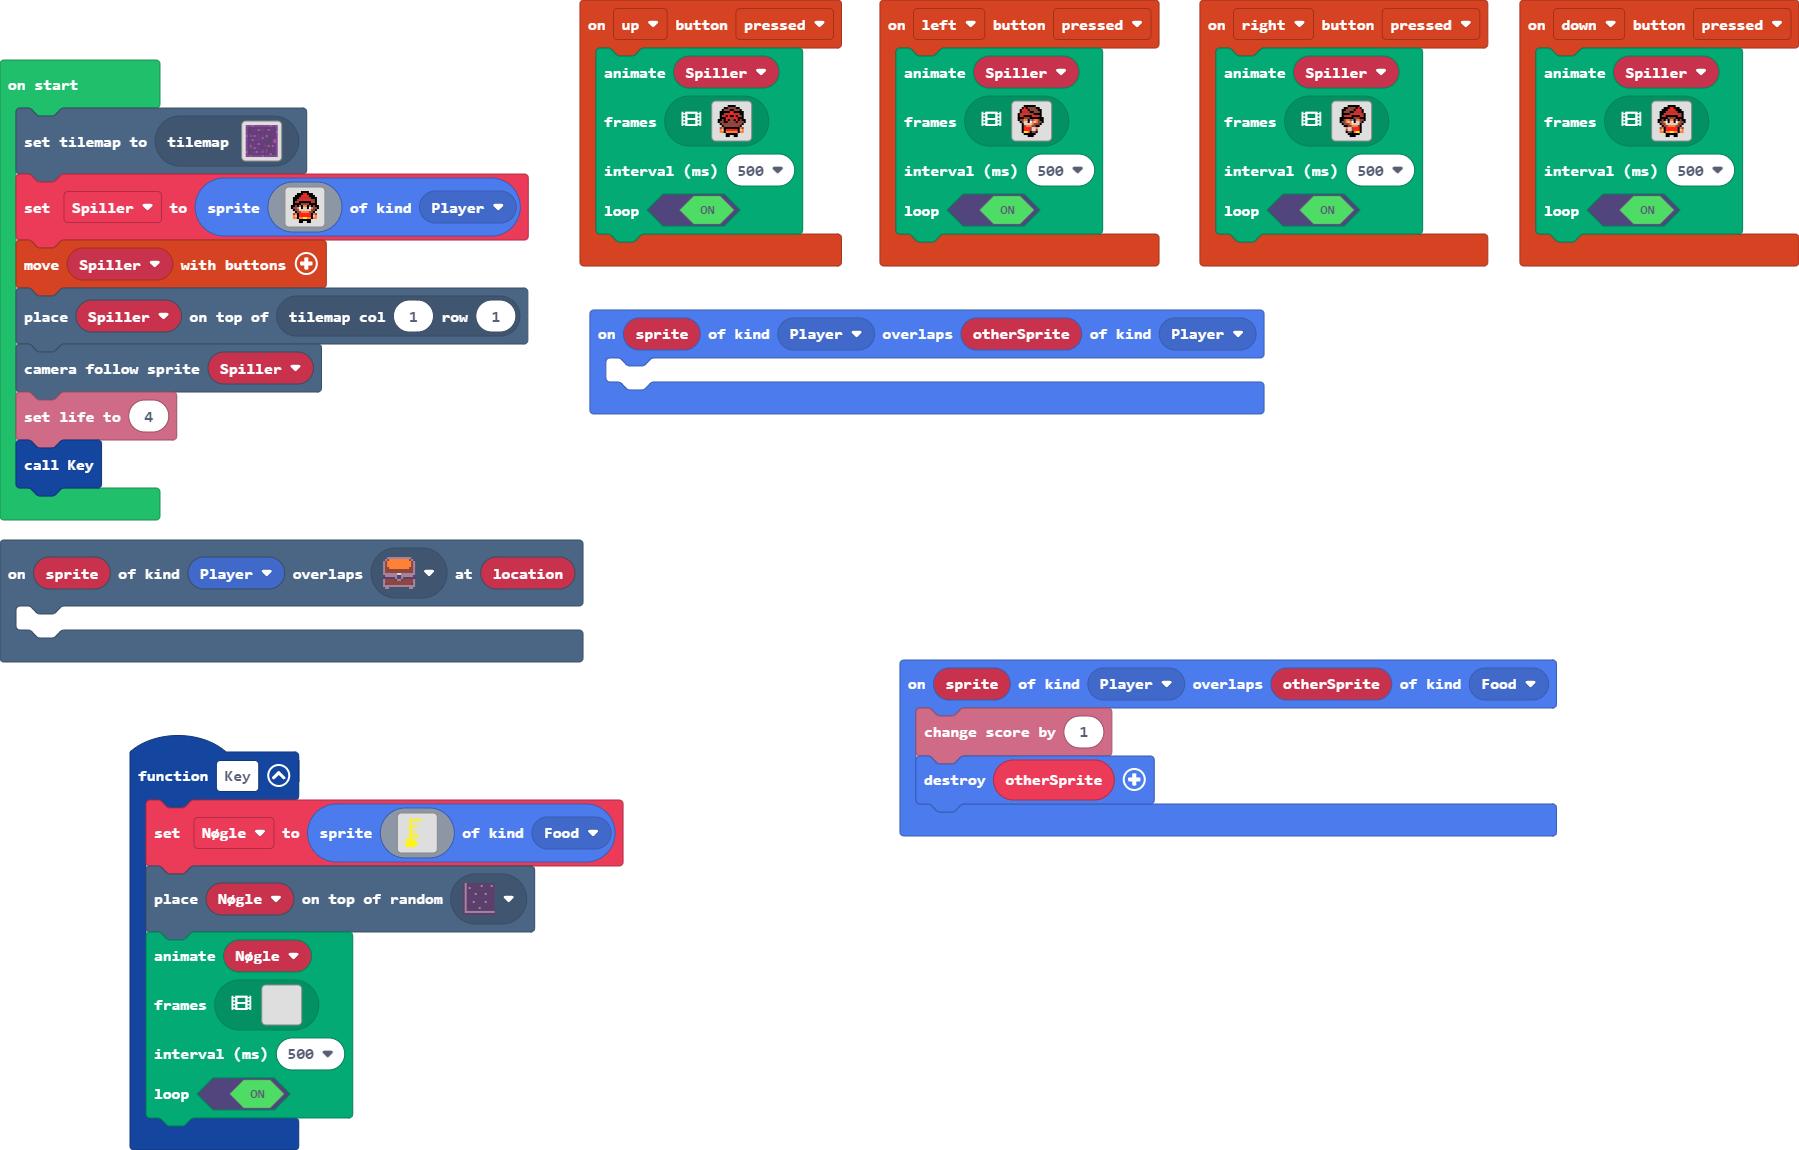
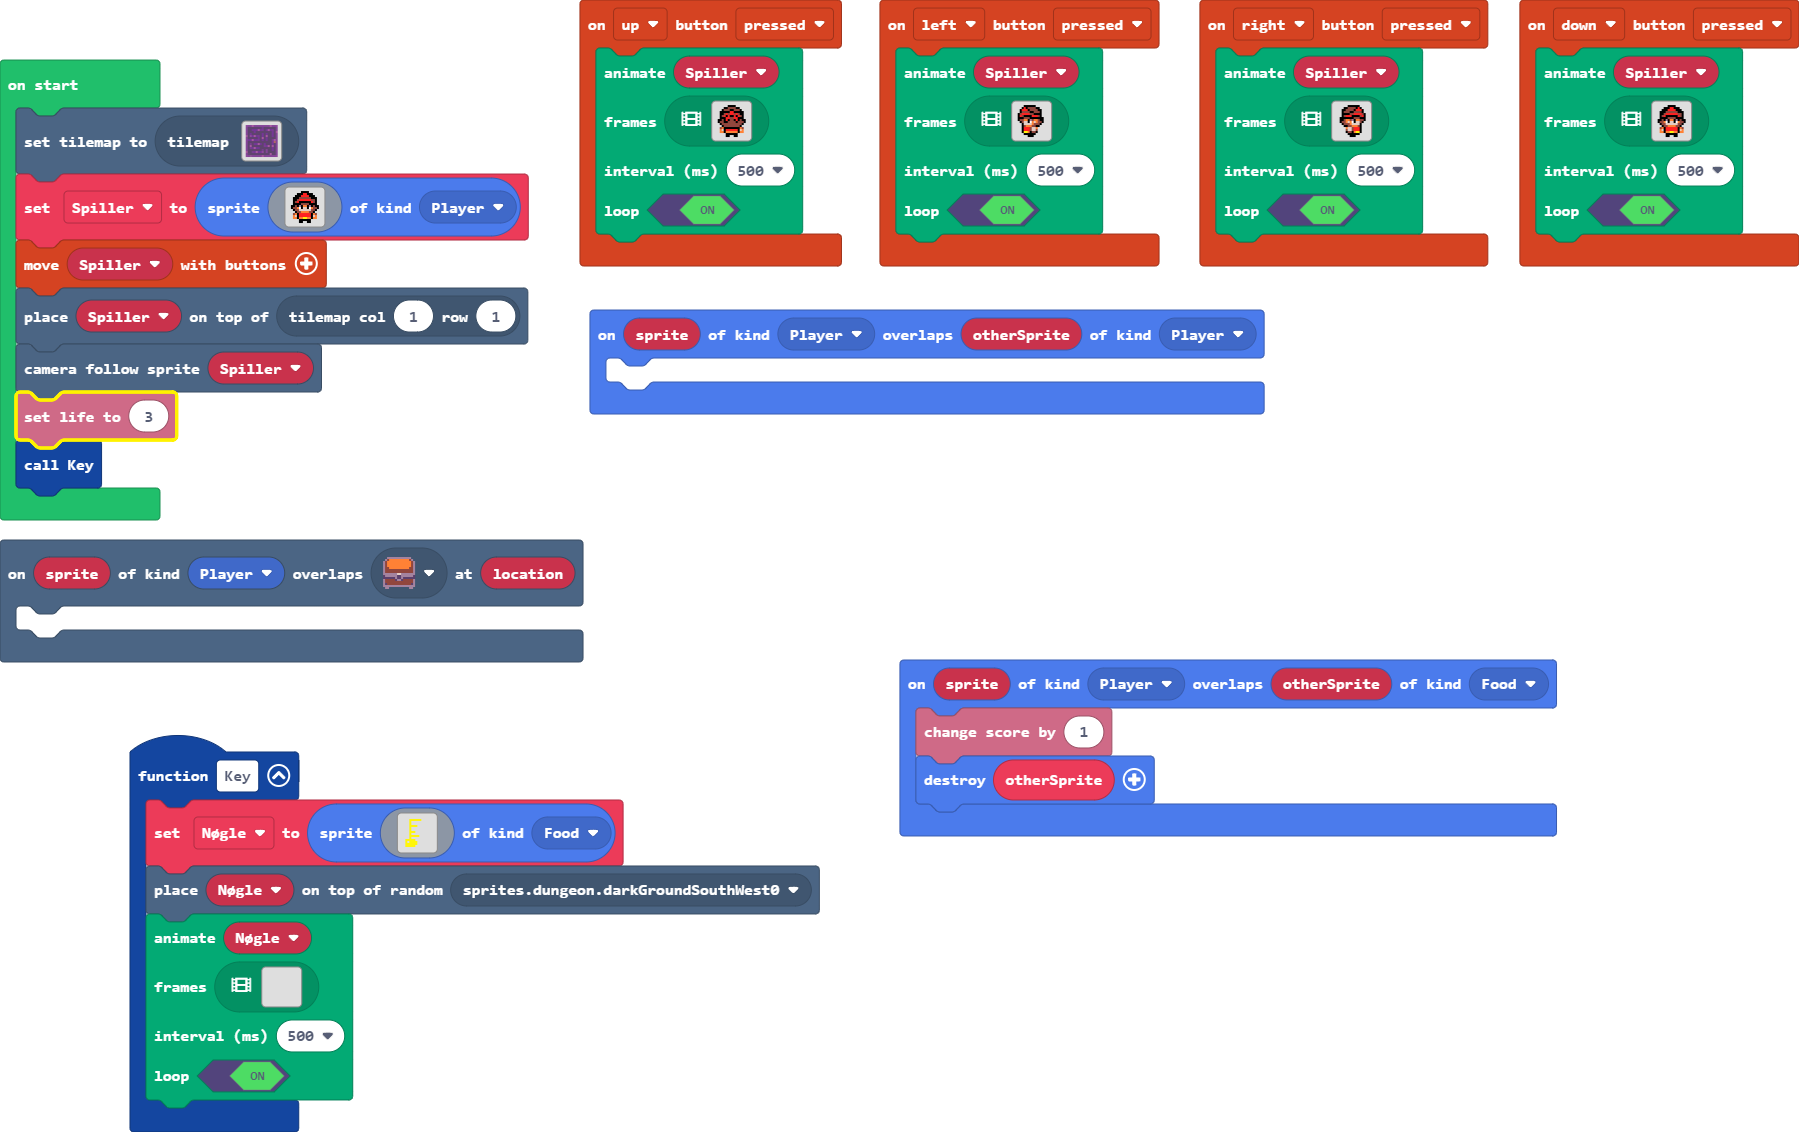
Update pxt.json, main.blocks, main.ts

diff --git a/main.ts b/main.ts
@@ -91,5 +91,5 @@ Spiller = sprites.create(img`
 controller.moveSprite(Spiller)
 tiles.placeOnTile(Spiller, tiles.getTileLocation(1, 1))
 scene.cameraFollowSprite(Spiller)
-info.setLife(4)
+info.setLife(3)
 Key()
